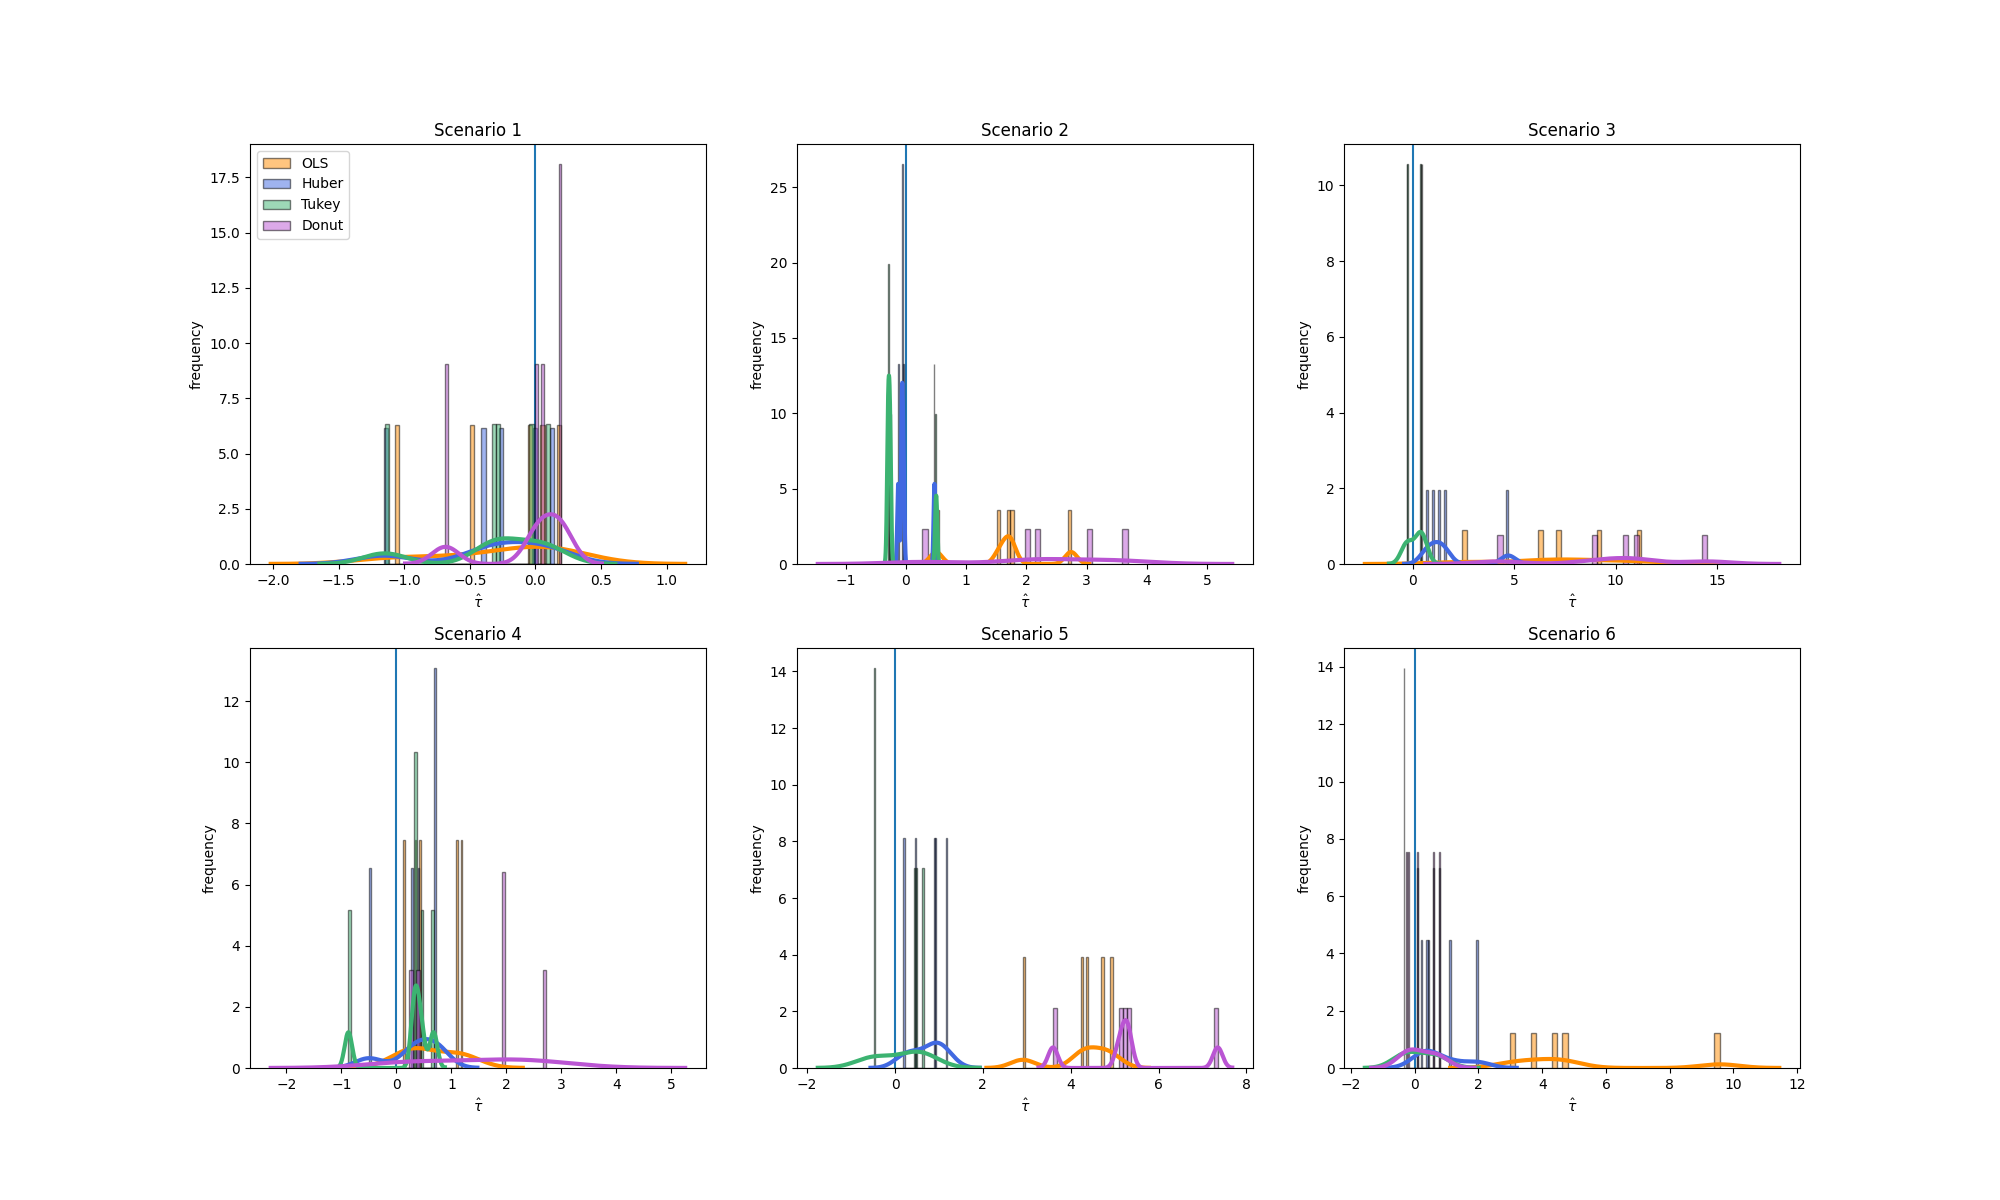
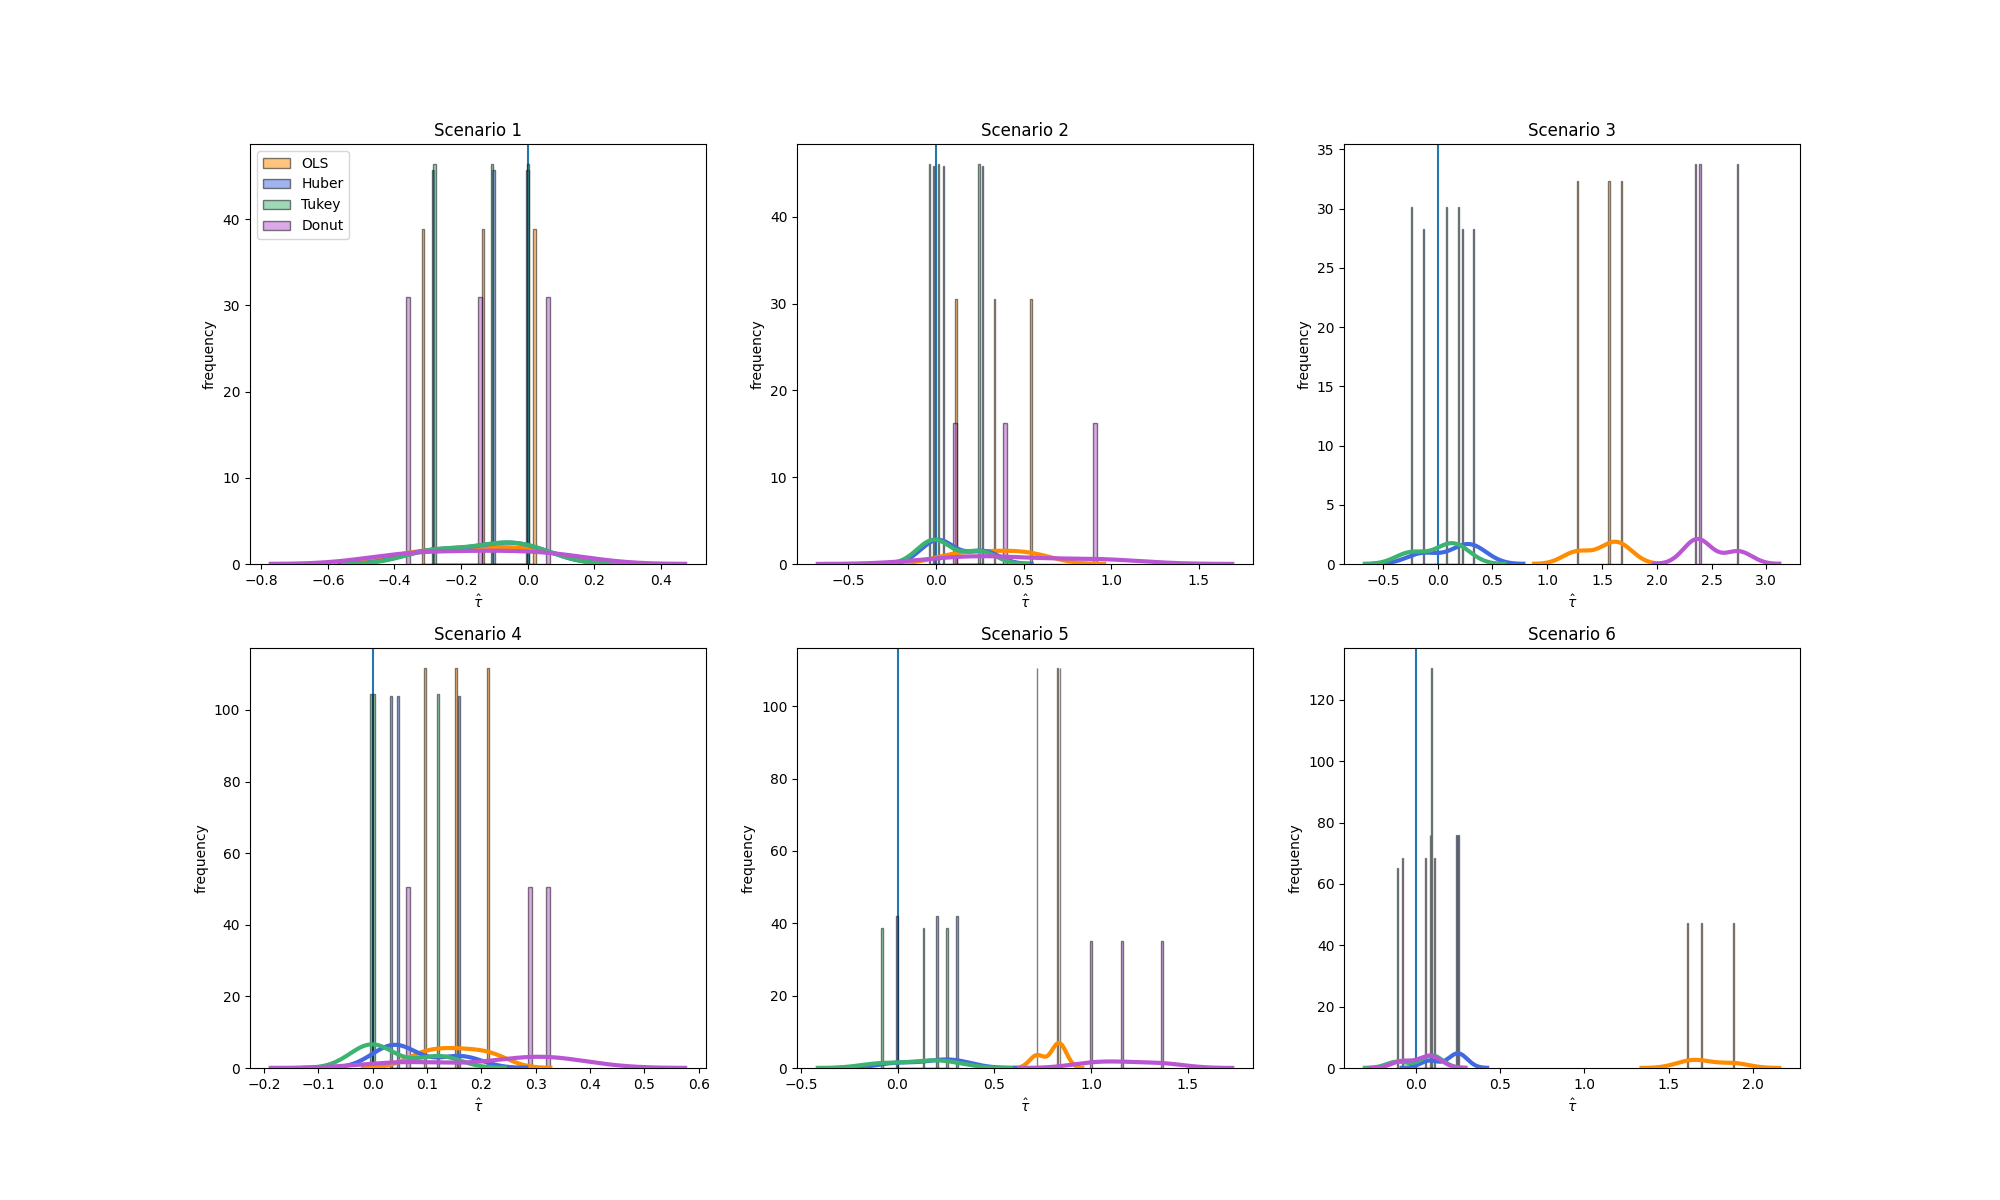
different r for asymptotic analysis

diff --git a/src/simulation.py b/src/simulation.py
@@ -39,6 +39,7 @@ def powerSimulation(
     outlierMethod="",
     nOutliers=0,
     computeAsymptotics=False,
+    rAsymptotics=0,
 ):
     rejectionRate = [{}, {}, {}, {}]
     labels = ["OLS", "Huber", "Tukey", "Donut"]
@@ -50,7 +51,7 @@ def powerSimulation(
         if taus[t] in specialTau:
             if computeAsymptotics:
                 detailedResults[k] = asymptoticSimulation(
-                    r,
+                    rAsymptotics,
                     nameSample,
                     n,
                     taus[t],
@@ -141,19 +142,21 @@ def asymptoticSimulation(
     for k in range(12):
         n = int(nInit * np.power(1.6, k - 3))
         nRange = np.append(nRange, n)
-        pointEstimation_n, testValues_n, ciValues_n, firstSample_n, notUsed = simulationDetailed(
-            r,
-            nameSample,
-            n,
-            tau,
-            alpha,
-            beta,
-            L,
-            cutoff,
-            b,
-            outlier,
-            outlierMethod,
-            nOutliers,
+        pointEstimation_n, testValues_n, ciValues_n, firstSample_n, notUsed = (
+            simulationDetailed(
+                r,
+                nameSample,
+                n,
+                tau,
+                alpha,
+                beta,
+                L,
+                cutoff,
+                b,
+                outlier,
+                outlierMethod,
+                nOutliers,
+            )
         )
         if k == 3:
             pointEstimation, testValues, ciValues, firstSample = (
@@ -643,6 +646,7 @@ def powerSimulations(
     parametersScenarios="",
     specialTau=0,
     computeAsymptotics=False,
+    rAsymptotics=0,
     prinToLatex=False,
 ):
     (
@@ -672,6 +676,7 @@ def powerSimulations(
         beta,
         cutoff=0,
         computeAsymptotics=computeAsymptotics,
+        rAsymptotics=rAsymptotics,
     )
 
     rejectionRate2, detailedResults2 = powerSimulation(
@@ -687,6 +692,7 @@ def powerSimulations(
         outlierMethod=scenario2_method,
         nOutliers=scenario2_num,
         computeAsymptotics=computeAsymptotics,
+        rAsymptotics=rAsymptotics,
     )
 
     rejectionRate3, detailedResults3 = powerSimulation(
@@ -702,6 +708,7 @@ def powerSimulations(
         outlierMethod=scenario3_method,
         nOutliers=scenario3_num,
         computeAsymptotics=computeAsymptotics,
+        rAsymptotics=rAsymptotics,
     )
 
     rejectionRate4, detailedResults4 = powerSimulation(
@@ -717,6 +724,7 @@ def powerSimulations(
         outlierMethod=scenario4_method,
         nOutliers=scenario4_num,
         computeAsymptotics=computeAsymptotics,
+        rAsymptotics=rAsymptotics,
     )
 
     rejectionRate5, detailedResults5 = powerSimulation(
@@ -732,6 +740,7 @@ def powerSimulations(
         outlierMethod=scenario5_method,
         nOutliers=scenario5_num,
         computeAsymptotics=computeAsymptotics,
+        rAsymptotics=rAsymptotics,
     )
 
     rejectionRate6, detailedResults6 = powerSimulation(
@@ -747,6 +756,7 @@ def powerSimulations(
         outlierMethod=scenario6_method,
         nOutliers=scenario6_num,
         computeAsymptotics=computeAsymptotics,
+        rAsymptotics=rAsymptotics,
     )
 
     for t in range(len(specialTau)):

diff --git a/dev.py b/dev.py
@@ -44,7 +44,7 @@ import numpy as np
 # simResults = sim.simulations(r, "Basic Linear", n, tau=-1, alpha=0.5, beta=1, cutoff=0)
 # met.analyseSimResults(simResults)
 
-r1, r2, n = 5, 10, 30
+n, r, rAsymptotics = 50, 5, 3
 outlierScenarios = (
     "Simple Outside Right",
     1,
@@ -60,7 +60,7 @@ outlierScenarios = (
 
 np.random.seed(123456)
 sim.powerSimulations(
-    r1,
+    r,
     "Basic Linear",
     n,
     alpha=0.5,
@@ -69,10 +69,11 @@ sim.powerSimulations(
     parametersScenarios=outlierScenarios,
     specialTau=[-0.5,0],
     computeAsymptotics=True,
-    prinToLatex=False
+    rAsymptotics = rAsymptotics,
+    prinToLatex=False,
 )
 ## sim.simulations(
-#    r2,
+#    r,
 ##    "Basic Linear",
 ##    n,
 ##    tau=-0.5,

diff --git a/mainSim.py b/mainSim.py
@@ -2,7 +2,7 @@ import numpy as np
 from src.simulation import powerSimulations
 
 
-r, n = 5, 30
+n, r, rAsymptotics = 250, 10, 3
 outlierScenarios = (
     "Simple Outside Right",
     1,
@@ -27,5 +27,6 @@ powerSimulations(
     parametersScenarios=outlierScenarios,
     specialTau=[-0.5,0],
     computeAsymptotics=True,
+    rAsymptotics = rAsymptotics,
     prinToLatex=False
 )
